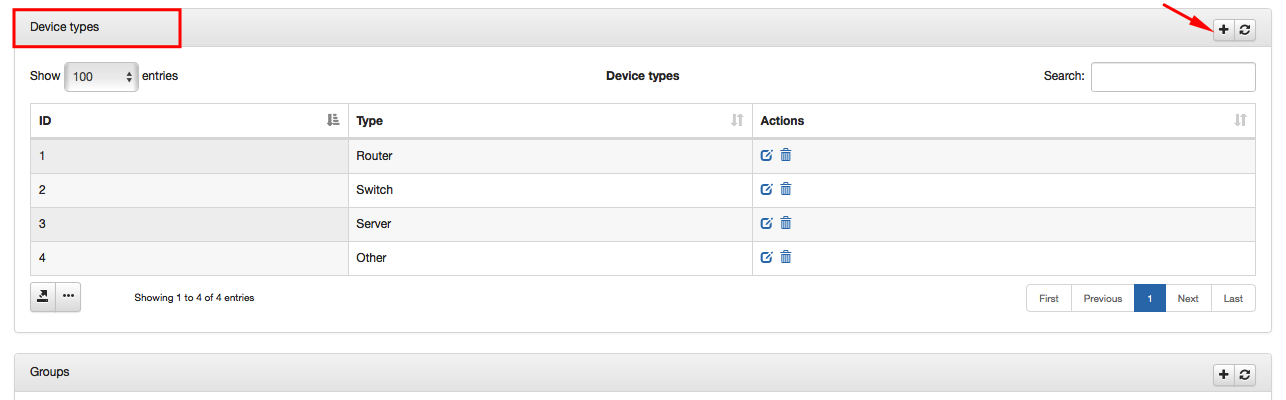
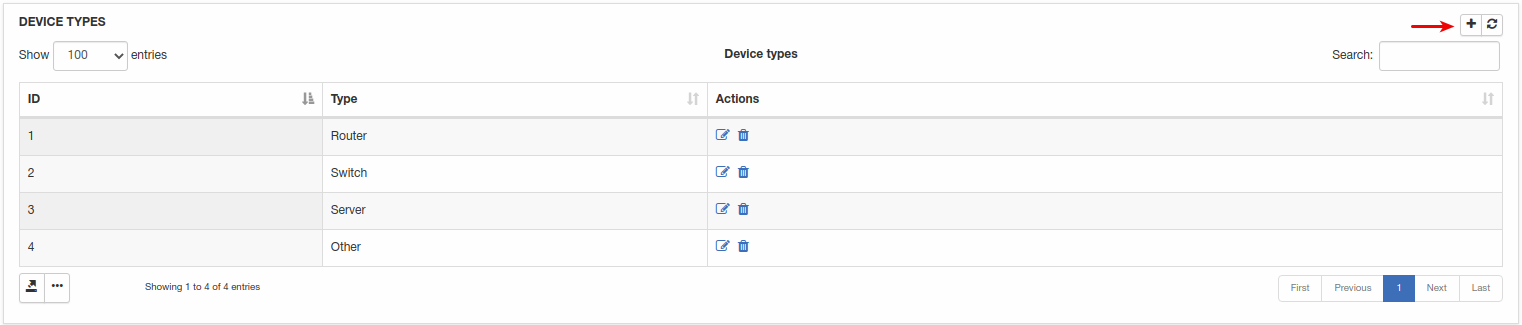
update config/network/monitoring,host_categories, network_categories, nas_types, fup

diff --git a/files/configuration/network/monitoring_config/monitoring_config.md b/files/configuration/network/monitoring_config/monitoring_config.md
@@ -1,37 +1,44 @@
-Monitoring config
+Monitoring configuration
 =================
 
 To configure Monitoring click on `Config → Networking → Monitoring`.
 
-![](menu.png)
+![icon](icon.png)
 
-There you can:
-1. Add new Producers by adding their names.
+### Vendors
+![vedors](vendors.png)
 
-  ![Create producer](1.png)
+Here we have a list of vendors. You can add/edit or remove vendors using buttons, to add new vendor click on "+" button at the right top corner.
 
-  You can also edit or delete Producer here by clicking on icons ![](edit_icon.png) and ![](delete_icon.png):
+### Device types
+![devices](device_types.png)
 
-  ![Producers](producers.png)
+Here we have a list of device types. To add new device type click on "+" button.
 
+### Groups
+![groups](groups.png)
 
-2. Add new Device types:
+Here we have a list of groups for monitoring notifications. To edit existed group click on edit button and to add new group click on "+" button:
 
-  ![Device types](device_types.png)
+![add_group](add_group.png)
 
-  You can also edit or delete them here by clicking on icons ![](edit_icon.png) and ![](delete_icon.png):
+Let's add group "Tech" with next parameters:
 
-  ![Device types](device_types2.png)
+* **Delay time for notification** - If the device does not change status during this delay (in minutes), a notification will be sent;
 
+* **Administrators for notifications** - select administrators for this group who will receive notification;
 
-3. Create Groups for custom notifications:
+* **Notifications to Splynx** - enable/disable notification on Splynx admin web page when admin is online;
 
-  ![Groups](groups.png)
+* **Notification to email** - send notifications to email;
 
-  ![Edit groups](edit_group.png)
+* **Notification email template** - select template of email notification;
 
-  * **Group** - Set name of group.
-  * **Administrators for notifications** - Choose administrators who will recieve notificaitons.
-  * **Notifications to Splynx** - Enable Splynx notifications.
-  * **Notifications to email** - Enable email notifications.
-  * **Notifications via sms** - Enable sms notifications.
+* **Notification via SMS** - send SMS notifications;
+
+* **Notification SMS template** - select template of SMS notification;
+
+### Monitoring backups
+![backups](monitoring_backups.png)
+
+Select SSH timeout for monitoring backups.

diff --git a/files/configuration/network/fup/fup.md b/files/configuration/network/fup/fup.md
@@ -3,13 +3,18 @@ FUP
 
 FUP settings are configurable in `Config → Networking → FUP`:
 
-![Main menu](main_menu.png)
+![Main menu](icon.png)
 
 There are following FUP settings here to configure:
 
-![Settings](settings.png)
+![Settings](config.png)
 
 * **Customer additional field** - You can select customer additional field here. If additional field is set and is integer from 1 to 28 (or -1), it will be used for resetting instead of other values. Use -1 value to disable reset limits.
-* **Monthly reset prepaid limits** - Set the day when prepaid limits will be reseted.
-* **Monthly reset recurring limits** - Set the day when recurring limits will be reseted.
-* **Weekly limit reset** - Choose Sunday or Monday to reset limits weekly.
+
+* **Monthly reset prepaid limits** - Set the day to reset prepaid limits;
+
+* **Monthly reset recurring limits** - Set the day to reset recurring limits;
+
+* **Weekly limit reset** - Choose Sunday or Monday to reset limits weekly;
+
+* **Send FUP notifications** - enable/disable sending of FUP notifications after applying FUP rules.

diff --git a/files/configuration/network/ip_host_categories/ip_host_categories.md b/files/configuration/network/ip_host_categories/ip_host_categories.md
@@ -3,22 +3,16 @@ IP Host categories
 
 To configure IP Host categories click on `Config → Networking → IP Host categories`:
 
-![main menu](main_menu.png)
+![main menu](icon.png)
 
 It is possible to add, edit or delete IP Host categories here:
 
-![Settings](settings.png)
-
+![Settings](list.png)
 
 When you edit existing IP Host category you can change the name of Category, Icon and used colour:
 
-![Edit](edit.png)
-
 You can see available icons and its names on this [web](http://fontawesome.io/icons/).
-Click on one:
 
-![Icon](icon.png)
+To add new category click on "Add" button:
 
-And write in Icon field the red text between commas:
-
-![Sample](sample.png)
+![add](add.png)

diff --git a/files/configuration/network/ip_network_categories/ip_network_categories.md b/files/configuration/network/ip_network_categories/ip_network_categories.md
@@ -3,13 +3,12 @@ IP Network categories
 
 You can edit or add new Network categories by clicking on `Config → Networking → IP Network Categories`.
 
-![Main_menu](main_menu.png)
+![Main_menu](icon.png)
 
+Here IP network categories can be added/removed/edited.
 
-Click on ![](edit_icon.png)  to edit existing one or click on Add to create a Network category:
+![list](list.png)
 
-![Create a network category](create.png)
+To add new category click on "Add" button:
 
-The window will pop-up where you can write the name of category.
-
-![Create a network category](create1.png)
+![Create a network category](add.png)

diff --git a/files/configuration/network/nas_types/nas_types.md b/files/configuration/network/nas_types/nas_types.md
@@ -3,12 +3,14 @@ NAS types
 
 To configure NAS types click on `Config → Networking → NAS types`.
 
-![](menu.png)
+![icon](icon.png)
 
-It is possible here to edit default ones or create new.
+Here NAS types can be edited/added/removed.
 
-![Nas types](nas_type.png)
+![Nas types](list.png)
 
-You can write the name of new NAS type and enable MikroTik API.
+Click on "Add" button to add new NAS type:
 
-![Create NAS](create_nas.png)
+![Create NAS](add.png)
+
+If this NAS type can use Mikrotik API - enable this option.
